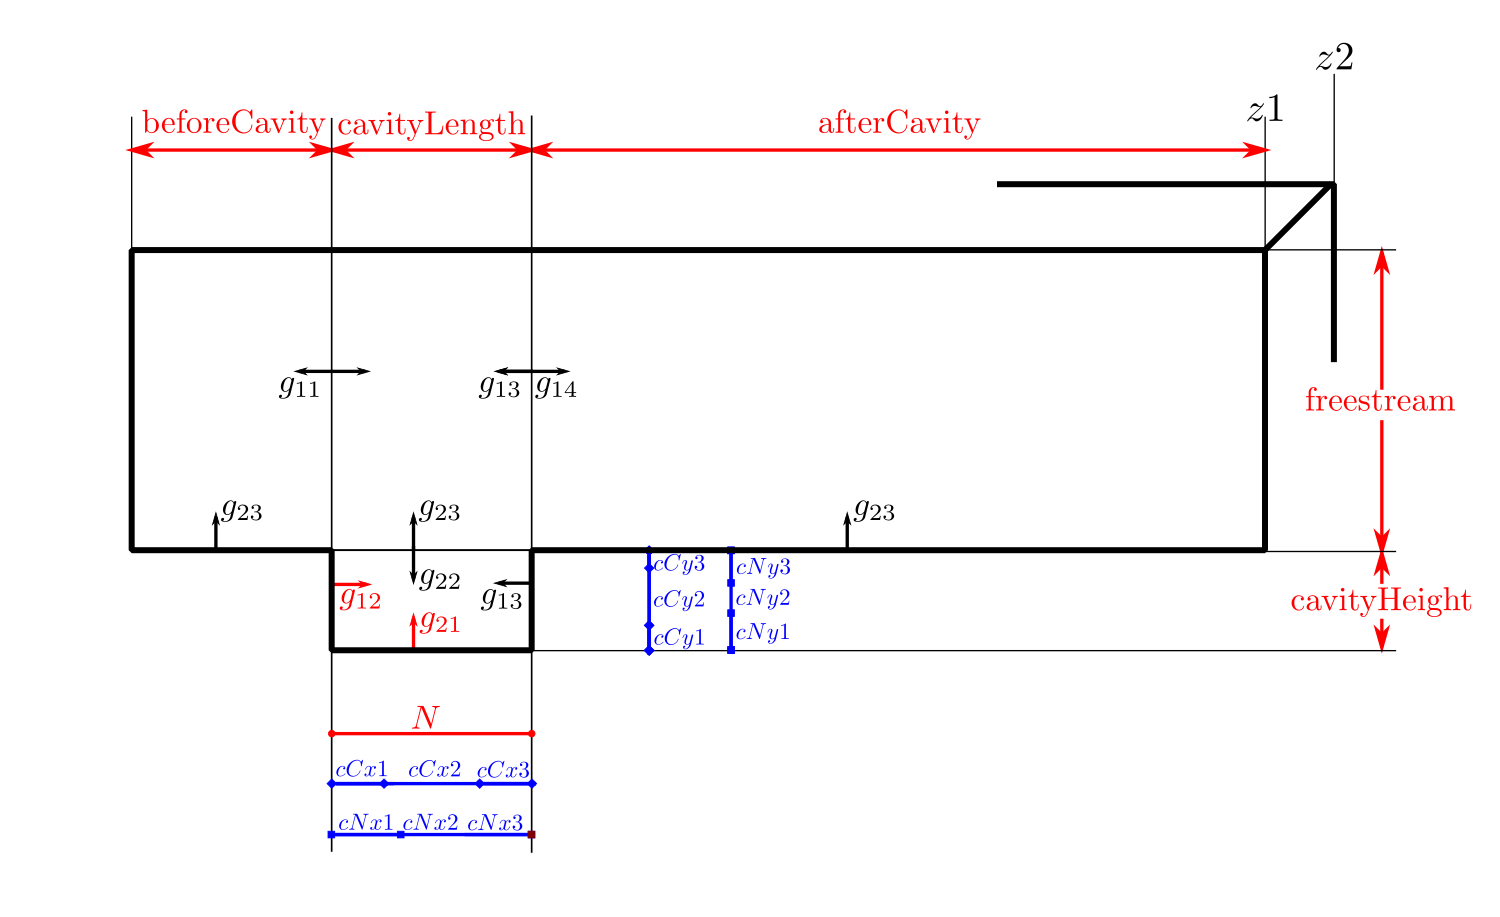
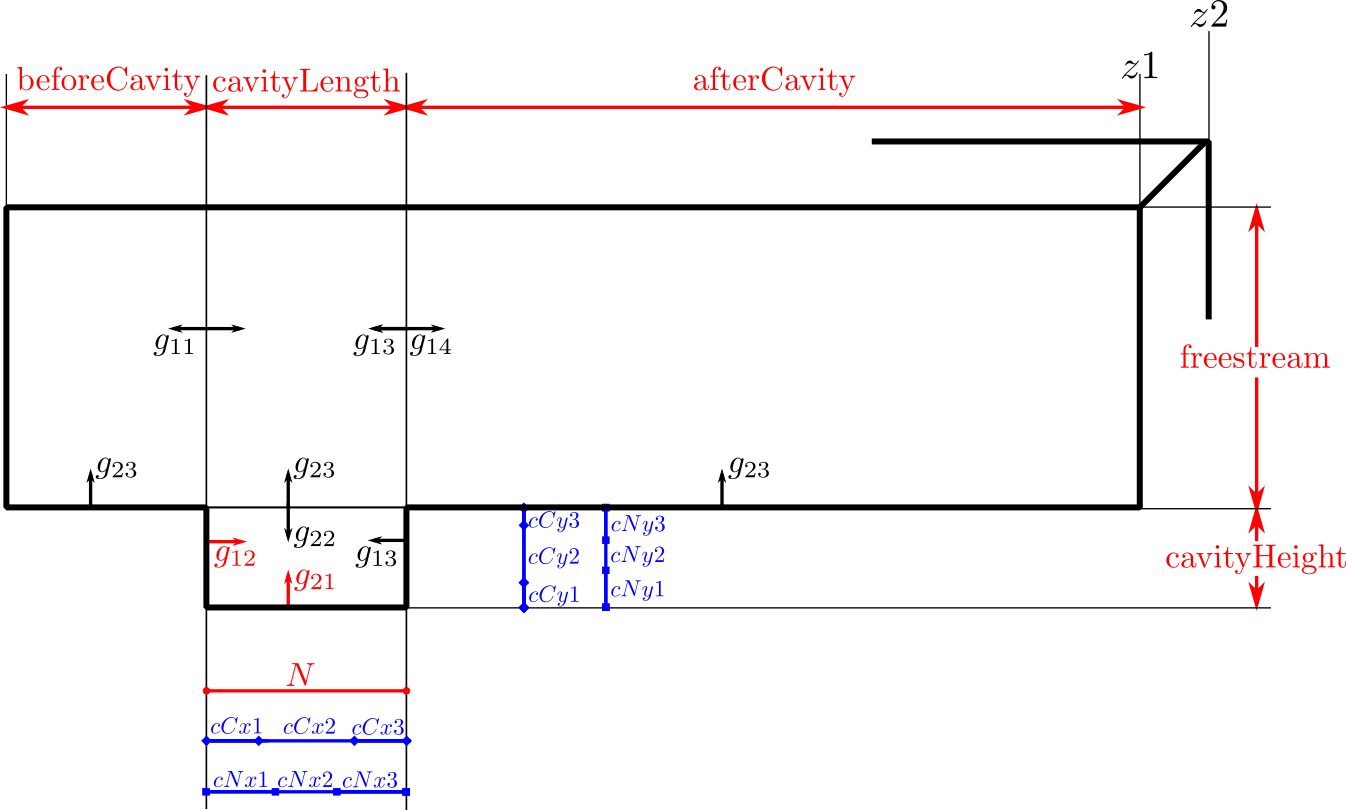
Cavity mesh equations

Changed region(s): [[0.0, 0.0, 1.0, 0.9259], [0.1248, 0.4012, 0.3744, 0.463], [0.1248, 0.9568, 0.312, 0.9877]]

diff --git a/README.rst b/README.rst
@@ -7,7 +7,36 @@ Genetic algorithms applied in Computer Fluid Dynamics for multiobjective optimiz
    :align: middle
 
 .. |Rfmuxmuy| image:: https://latex.codecogs.com/svg.latex?%5Cdpi%7B100%7D%20%5Cbg_white%20%5Csmall%20R%3Df%28%5Cmu_x%2C%5Cmu_y%29
+   :alt: Rfmuxmuy
    :align: middle
+
+.. |divisions| image:: https://latex.codecogs.com/svg.latex?%5Cdpi%7B100%7D%20%5Csmall%20%5Cbegin%7Bmatrix%7D%20fCy1%3DcCy3%5Ccdot%20%5Cdfrac%7BcH%7D%7Bf%7D%20%5Clongrightarrow%20fCy2%3D1-fCy1%20%5C%5C%20%5C%5C%20fCx2%3DcCx1%5Ccdot%5Cdfrac%7BcL%7D%7BbC%7D%20%5Clongrightarrow%20fCx1%3D1-fCx2%20%5C%5C%20%5C%5C%20fCx3%3DcCx3%5Ccdot%5Cdfrac%7BcL%7D%7BaC%7D%20%5Clongrightarrow%20fCx4%3D1-fCx3%20%5Cend%7Bmatrix%7D
+	:alt: divisions
+	:align: center
+
+.. |NCH| image:: https://latex.codecogs.com/svg.latex?%5Cdpi%7B100%7D%20%5Csmall%20%5Cleft.%5Cbegin%7Bmatrix%7D%20%5Ctext%7Bhorizontal%3A%20%7D%5Cdfrac%7BcCx2%5Ccdot%20cL%7D%7BcNx2%5Ccdot%20N%7D%20%5C%5C%20%5C%5C%20%5Ctext%7Bvertical%3A%20%7D%5Cdfrac%7BcCy2%5Ccdot%20cH%7D%7BcNy2%5Ccdot%20NCH%7D%20%5Cend%7Bmatrix%7D%5Cright%5C%7D%20%5Crightarrow%20NCH%3D%20%5Cdfrac%7BcNx2%20%5Ccdot%20cCy2%5Ccdot%20cH%7D%7BcNy2%5Ccdot%20cCx2%5Ccdot%20cL%7D%5Ccdot%20N
+	:alt: cellsCavityHeight
+	:align: center
+
+.. |NF| image:: https://latex.codecogs.com/svg.latex?%5Cdpi%7B100%7D%20%5Csmall%20%5Cbegin%7Bmatrix%7D%20%5Cleft.%5Cbegin%7Bmatrix%7D%20%5Ctext%7Bhorizontal%3A%20%7D%5Cdfrac%7BcCx2%5Ccdot%20cL%7D%7BcNx2%5Ccdot%20N%7D%20%5C%5C%20%5C%5C%20%5Ctext%7Bvertical%3A%20%7D%5Cdfrac%7BfCy2%5Ccdot%20f%7D%7BfNy2%5Ccdot%20NF%7D%20%5Cxrightarrow%5BfNy1%20%3D%20cNy3%5Ccdot%20%5Cfrac%7BNCH%7D%7BNF%7D%5D%7BfNy2%5Ccdot%20NF%20%3D%20%281-fNy1%29%5Ccdot%20NF%7D%20%5Cdfrac%7Bfy2%5Ccdot%20f%7D%7BNF-%20cNy3%20%5Ccdot%20NCH%7D%20%5Cend%7Bmatrix%7D%5Cright%5C%7D%20%5Crightarrow%20%5C%5C%20%5C%5C%20%5Crightarrow%20NF%3D%20%5Cdfrac%7BfCy2%20%5Ccdot%20f%20%5Ccdot%20cNx2%7D%7BcCx2%5Ccdot%20cL%7D%5Ccdot%20N%20&plus;%20cNy3%5Ccdot%20NCH%20%5Cend%7Bmatrix%7D
+	:alt: cellsFreestream
+	:align: center
+
+.. |NBC| image:: https://latex.codecogs.com/svg.latex?%5Cdpi%7B100%7D%20%5Csmall%20%5Cbegin%7Bmatrix%7D%20%5Cleft.%5Cbegin%7Bmatrix%7D%20%5Ctext%7Bhorizontal%3A%20%7D%5Cdfrac%7BfCx1%5Ccdot%20bC%7D%7BfNx1%5Ccdot%20NBC%7D%20%5Cxrightarrow%5BfNx2%3DcNx2%5Ccdot%20%5Cfrac%7BN%7D%7BNBC%7D%5D%7BfNx1%5Ccdot%20NBC%3D%281-fNx2%29%5Ccdot%20NBC%7D%20%5Cdfrac%7BfCx1%5Ccdot%20bC%7D%7BNBC-cNx2%5Ccdot%20N%7D%20%5C%5C%20%5C%5C%20%5Ctext%7Bvertical%3A%20%7D%5Cdfrac%7BfCy2%5Ccdot%20f%7D%7BfNy2%5Ccdot%20NF%7D%20%5Cxrightarrow%5B%5D%7B%5Ctext%7Bby%20definition%7D%7D%20%5Cdfrac%7BcCx2%5Ccdot%20cL%7D%7BcNx2%5Ccdot%20N%7D%20%5Cend%7Bmatrix%7D%5Cright%5C%7D%20%5Crightarrow%20%5C%5C%20%5C%5C%20%5Crightarrow%20NBC%3D%20%5Cdfrac%7BfCx1%20%5Ccdot%20bC%20%5Ccdot%20cNx2%7D%7BcCx2%5Ccdot%20cL%7D%5Ccdot%20N%20&plus;%20cNx2%5Ccdot%20N%20%5Cend%7Bmatrix%7D
+	:alt: cellsBeforeCavity
+	:align: center
+
+.. |NAC| image:: https://latex.codecogs.com/svg.latex?%5Cdpi%7B100%7D%20%5Csmall%20%5Cbegin%7Bmatrix%7D%20%5Cleft.%5Cbegin%7Bmatrix%7D%20%5Ctext%7Bhorizontal%3A%20%7D%5Cdfrac%7BfCx4%5Ccdot%20aC%7D%7BfNx4%5Ccdot%20NAC%7D%20%5Cxrightarrow%5BfNx3%3DcNx3%5Ccdot%20%5Cfrac%7BN%7D%7BNAC%7D%5D%7BfNx4%5Ccdot%20NAC%3D%281-fNx3%29%5Ccdot%20NAC%7D%20%5Cdfrac%7BfCx4%5Ccdot%20aC%7D%7BNAC-cNx3%5Ccdot%20N%7D%20%5C%5C%20%5C%5C%20%5Ctext%7Bvertical%3A%20%7D%5Cdfrac%7BfCy2%5Ccdot%20f%7D%7BfNy2%5Ccdot%20NF%7D%20%5Cxrightarrow%5B%5D%7B%5Ctext%7Bby%20definition%7D%7D%20%5Cdfrac%7BcCx2%5Ccdot%20cL%7D%7BcNx2%5Ccdot%20N%7D%20%5Cend%7Bmatrix%7D%5Cright%5C%7D%20%5Crightarrow%20%5C%5C%20%5C%5C%20%5Crightarrow%20NAC%3D%20%5Cdfrac%7BfCx4%20%5Ccdot%20aC%20%5Ccdot%20cNx2%7D%7BcCx2%5Ccdot%20cL%7D%5Ccdot%20N%20&plus;%20cNx3%5Ccdot%20N%20%5Cend%7Bmatrix%7D
+	:alt: cellsAfterCavity
+	:align: center
+
+.. |cellsDivision| image:: https://latex.codecogs.com/svg.latex?%5Cdpi%7B100%7D%20%5Csmall%20%5Cbegin%7Bmatrix%7D%20fNx2%3DcNx1%5Ccdot%5Cdfrac%7BN%7D%7BNBC%7D%20%5Clongrightarrow%20fNx1%3D1-fNx2%20%5C%5C%20%5C%5C%20fNx3%3DcNx3%5Ccdot%5Cdfrac%7BN%7D%7BNAC%7D%20%5Clongrightarrow%20fNx4%3D1-fNx3%20%5C%5C%20%5C%5C%20fNy1%3DcNy3%5Ccdot%20%5Cdfrac%7BNCH%7D%7BNF%7D%20%5Clongrightarrow%20fNy2%3D1-fNy1%20%5C%5C%20%5Cend%7Bmatrix%7D
+	:alt: cellsDivision
+	:align: center
+
+.. |gradings| image:: https://latex.codecogs.com/svg.latex?%5Cdpi%7B100%7D%20%5Cbg_white%20%5Csmall%20g_%7B11%7D%3Dg_%7B13%7D%3D%5Cdfrac%7B1%7D%7Bg_%7B12%7D%7D%20%5Cqquad%20%5Cqquad%20g_%7B14%7D%3Dg_%7B12%7D%20%5Cqquad%20%5Cqquad%20g_%7B22%7D%20%3D%20%5Cdfrac%7B1%7D%7Bg_%7B21%7D%7D%20%5Cqquad%20%5Cqquad%20g_%7B23%7D%3Dg_%7B21%7D
+	:alt: gradings
+	:align: center
 
 This is a Senior Thesis developed for the BSc Aerospace Engineering at the University of Leon. However, this project was done at the University of Vermont during an exchange program. The main purpose of this thesis was to couple a metaheuristic optimization method, such as genetic algorithm (GA), with aerospace cases simulated with computer fluid dynamics (CFD) that have multiple objectives (MO).
 
@@ -240,7 +269,7 @@ However the results in this case are way different from the ones before. These h
 Conclusions
 ============
 
-The main objective of the project of coupling genetic algorithms with computer fluid dynamics cases has been fulfilled. The created scripts have been used for three different cases, proving that GA are a good approach to CFD but only for 2D simple cases, given that each one of the optimization process took ~15 hours and created roughly 50 Gb of data. Further developments should aim towards a higher convergence of the Pareto front to reduce both computational time and space, so this method can be used for more complex cases or even 3D meshes. 
+The main objective of the project of coupling genetic algorithms with computer fluid dynamics cases has been fulfilled. The created scripts have been used for three different cases, proving that GA are a good approach to CFD but (at this thesis moment) only for 2D simple cases, given that each one of the optimization process took ~15 hours and created roughly 50 Gb of data. Further developments should aim towards a higher convergence of the Pareto front to reduce both computational time and used space, so this method can be used for more complex cases or even 3D meshes. 
 
 *****************
 FOLDER BY FOLDER
@@ -341,11 +370,9 @@ There are four working cases in the repository with all required files to comple
 cavity-mesh
 ============
 
-Mesh generator of a cavity inside a freestream flow with a high level of customization but keeping in mind one objective: maintain the aspect ratio with a value of 1 in the vast majority of the cells that are far from the boundary layer. Basic inputs are the dimensions of the case, having three horizontal dimensions (freestream *before the cavity*, *horizontal length of the cavity*, freestream *after the cavity*) and two vertical ones (*cavity height* and *freestream* height), number of horizontal cells in the cavity and grading (boundary layer expansion ratio factor) of the most-left wall and lower wall of the cavity.  There are additional inputs to the case that may also be varied: z-direction components (z1 and z2) and percentage of the chord and cells for the cavity block (cCx1, cCx2, cCx3, cCy1, cCy2, cCy3, cNx1, cNx2, cNx3, cNy1, cNy2, 
-cNy3). Custom gradings for all the other walls are also additional inputs, but if not specified they will be computed automatically depending on the ones fixed for the other directions. 
+Mesh generator of a cavity inside a freestream flow with a high level of customization but keeping in mind one objective: maintain the aspect ratio with a value of 1 in the vast majority of the cells that are far from the boundary layer. Basic inputs are the dimensions of the case, having three horizontal dimensions (freestream *beforeCavity* **bC**, horizontal *cavityLength* **cL**, freestream *afterCavity* **aC**) and two vertical ones (*cavityHeight* **cH** and *freestream* height **f**), number of horizontal cells in the cavity (*N*) and grading (boundary layer expansion ratio factor) of the most-left wall and lower wall of the cavity (*g12* and *g21*).  There are additional inputs to the case that may also be varied: z-direction components (z1 and z2) and percentage of the chord and cells for each percentage in the cavity block (cCx1, cCx2, cCx3, cCy1, cCy2, cCy3, cNx1, cNx2, cNx3, cNy1, cNy2, cNy3). Custom gradings for all the other walls are also additional inputs, but if not specified they will be computed automatically depending on the ones fixed for the other directions. 
 
-
-The inputs are shown in the next figure:
+The inputs are shown in the next figure, having red for the mandatory inputs, blue for the additional ones and black for the ones that will be computed (unless otherwise specified):
 
 .. image:: https://raw.githubusercontent.com/jlobatop/GA-CFD-MO/master/docs/cavity-mesh/input.png
 	:alt: inputValues
@@ -357,16 +384,45 @@ The computed values are sketched in the figure below:
 	:alt: outputValues
 	:align: center
 
-The variables indicated in the previous figure are computed as:
+First of all, the dimensions x1, x2, x3, y1 and y2 are computed with the specified individual dimensions. There are some values in the previous sketch that are straightforward to compute, having that the different divisions of each block are computed by:
 
+|divisions|
 
+Number of cells for each dimension are computed so the greatest part of all blocks are squared cells with aspect ratio 1:1. To make that, the distance in the horizontal and vertical dimension of every cell are equaled and solved to get the number of cells in each direction. Keep in mind that total length times the length percentage divided by the total number of cells and by the percentage of cells will give the size of the cell.
 
+- Cavity cell to obtain cells in the cavity height:
+
+|NCH|
+
+- Freestream right-above-the-cavity cell to determine number of cells in the freestream:
+
+|NF|
+
+- Freestream before-the-cavity cell to obtain cells in the horizontal before-the-cavity length:
+
+|NBC|
+
+- Freestream after-the-cavity cell to obtain cells in the horizontal after-the-cavity length:
+
+|NAC|
+
+All the number of cell computations were rounded to the nearest integer to avoid decimal number of cells. Once the number of cells of each block has been computed, it is important to assign the percentage of cells for each block subdivision:
+
+|cellsDivision|
+
+Finally, the different boundary layer inflations are computed by:
+
+|gradings|
+
+unless otherwise specified.
 
 It can be seen in the next figure how a cavity mesh is obtained from some values It is worth noticing that the freestream and a considerable section of the cavity is made of squared cells:
 
 .. image:: https://raw.githubusercontent.com/jlobatop/GA-CFD-MO/master/docs/cavity-mesh/cavity_mesh.png
 	:alt: cavityMesh
 	:align: center
+
+This folder is in this repository because cavity vortex shedding was an idea which seemed also interesting to control with genetic algorithms. However, time did not let its implementation.
 
 cylinder-mesh
 ==============
@@ -400,23 +456,25 @@ mesh-generation
 extMesh
 --------
 
-.. image:: https://raw.githubusercontent.com/jlobatop/GA-CFD-MO/master/docs/mesh-generation/2412.png
-	:alt: externalFlowMesh
-	:align: center
+.. raw:: html
+
+	<img src="https://raw.githubusercontent.com/jlobatop/GA-CFD-MO/master/docs/mesh-generation/2412.png" width="600px" alt="externalFlowMesh">
 
 int
 ----
 
-.. image:: https://raw.githubusercontent.com/jlobatop/GA-CFD-MO/master/docs/mesh-generation/int2412.png
-	:alt: internalFlowMesh
-	:align: center
+.. raw:: html
+
+	<img src="https://raw.githubusercontent.com/jlobatop/GA-CFD-MO/master/docs/mesh-generation/int2412.png" width="600px" alt="internalFlowMesh">
+
 
 joukowskyMesh
 --------------
 
-.. image:: https://raw.githubusercontent.com/jlobatop/GA-CFD-MO/master/docs/mesh-generation/joukowskyAirfoil.png
-	:alt: jouwkoskyMesh
-	:align: center
+.. raw:: html
+
+	<img src="https://raw.githubusercontent.com/jlobatop/GA-CFD-MO/master/docs/mesh-generation/joukowskyAirfoil.png" width="600px" alt="joukowskyMesh">
+
 
 str_uns
 --------
